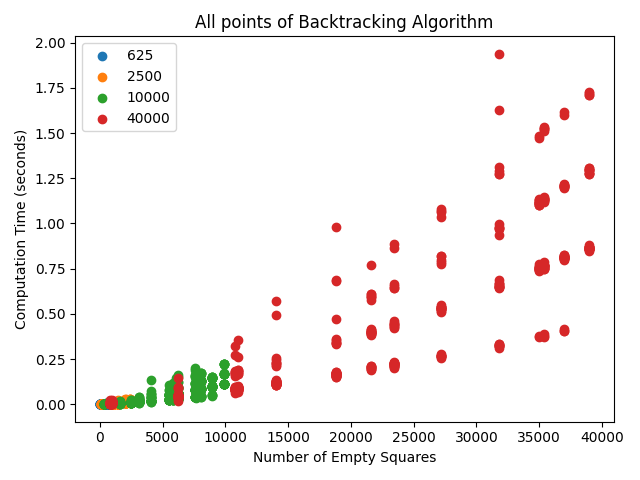
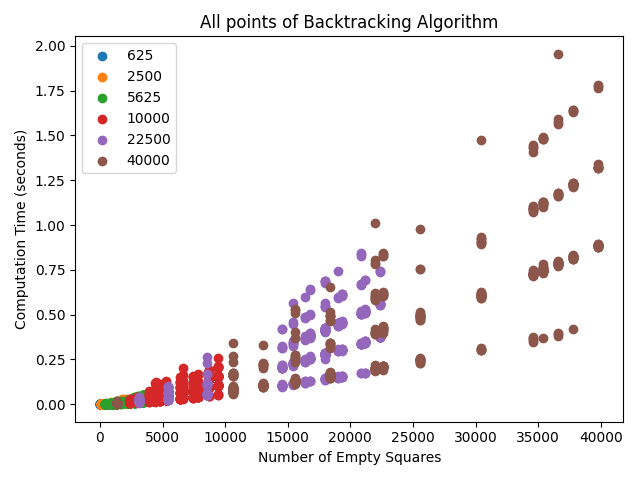
adding documentation

diff --git a/main.py b/main.py
@@ -18,8 +18,8 @@ import random as rand
 
 
 def setup(input_size, board_setup):
-    board_list = board_setup.split(',') # Break up input string
-    board = []                          # Initialize board
+    board_list = board_setup.split(",")  # Break up input string
+    board = []  # Initialize board
     row = []
     count = 1
 
@@ -52,11 +52,11 @@ def setup(input_size, board_setup):
 
 
 def find_cell(board, size):
-    for i in range (size):
-        for j in range (size):
-            if board[i][j] == '0':
+    for i in range(size):
+        for j in range(size):
+            if board[i][j] == "0":
                 return i, j
-            
+
     return -1, -1
 
 
@@ -68,22 +68,22 @@ def find_cell(board, size):
 
 
 def valid_move(cord1, cord2, board, size, num):
-
     # Check row for number
-    for i in range (size):
+    for i in range(size):
         if board[i][cord2] == str(num):
-            #print("Not valid: ", num)
-            #print(i, cord2)
+            # print("Not valid: ", num)
+            # print(i, cord2)
             return False
 
     # Check column for number
-    for j in range (size):
+    for j in range(size):
         if board[cord1][j] == str(num):
-            #print("Not valid: ", num)
-            #print(cord1, j)
+            # print("Not valid: ", num)
+            # print(cord1, j)
             return False
 
     return True
+
 
 """"
     Backtracking algorithm to solve sudoku puzzle
@@ -97,9 +97,10 @@ def valid_move(cord1, cord2, board, size, num):
         - Upon completion return the solved board - DONE
 """
 
+
 def solve(board, size):
     start = time.time()
-    nums = list(range(1, size + 1))   # list of all possible numbers
+    nums = list(range(1, size + 1))  # list of all possible numbers
     cord1, cord2 = find_cell(board, size)
     # print("Checking cords: ", cord1, cord2)
 
@@ -110,13 +111,13 @@ def solve(board, size):
         return True, total
 
     for num in nums:
-        if (valid_move(cord1, cord2, board, size, num)):
-            #print("Valid move: ", num)
-            #print(cord1, cord2)
+        if valid_move(cord1, cord2, board, size, num):
+            # print("Valid move: ", num)
+            # print(cord1, cord2)
 
             board[cord1][cord2] = str(num)
 
-            if (solve(board, size)):
+            if solve(board, size):
                 end = time.time()
                 total = end - start
                 return True, total
@@ -138,7 +139,9 @@ def solve(board, size):
 
 def is_valid(board):
     for row in board:
-        if len(row) != len(set(row)) or ' ' in row:       # Convert list to set to check for duplicates
+        if (
+            len(row) != len(set(row)) or " " in row
+        ):  # Convert list to set to check for duplicates
             return False
 
     columns = []
@@ -147,11 +150,10 @@ def is_valid(board):
         columns.append(column)
 
     for column in columns:
-        if len(column) != len(set(column)) or ' ' in column:
+        if len(column) != len(set(column)) or " " in column:
             return False
 
     return True
-
 
 
 """
@@ -167,9 +169,9 @@ def output(board, input_size):
         index = 0
         for val in row:
             if index == 0:
-                print("| %s" % val, end='', sep='', flush=True)
+                print("| %s" % val, end="", sep="", flush=True)
             elif index != input_size - 1:
-                print(" | %s" % val, end='', sep='', flush=True)
+                print(" | %s" % val, end="", sep="", flush=True)
             else:
                 print(" | %s |" % val)
             index += 1
@@ -191,13 +193,19 @@ def calculate(dict):
     return times, removed
 
 
+"""
+    Function that handles plotting the scatter plots for the data. Once plots are constructed, they are saved to the 
+    local directory. Parameters for the function are the dictionary that stores the values of the algorithm as well as
+    the algorithm that is being plotted.  
+"""
+
+
 def plot(back_time_dict, algo):
     pprint.pprint(back_time_dict)
 
     for val in back_time_dict:
         x = back_time_dict[val][1]
         y = back_time_dict[val][0]
-        # ax = plt.scatter(x, y, label=val)
         plt.scatter(x, y, label=val)
     plt.legend()
     plt.xlabel("Number of Empty Squares")
@@ -205,7 +213,7 @@ def plot(back_time_dict, algo):
     plt.title("All points of %s Algorithm" % algo)
 
     plt.tight_layout()
-    plt.savefig('scatter_%s' % algo)
+    plt.savefig("scatter_%s" % algo)
 
     plt.clf()
 
@@ -220,10 +228,7 @@ def plot(back_time_dict, algo):
     plt.title("Average of all points of %s Algorithm" % algo)
 
     plt.tight_layout()
-    plt.savefig('scatter_avg_%s' % algo)
-    # plt.show()
-
-
+    plt.savefig("scatter_avg_%s" % algo)
 
 
 """
@@ -233,22 +238,21 @@ def plot(back_time_dict, algo):
 
 
 def main():
-    values = [25, 50, 100, 200]
+    values = [25, 50, 75, 100, 150, 200]
     number_of_test = 30
     back_time_dict = {}
-    for val in values:                                 # Iterate values in array of sizes
+    for val in values:  # Iterate values in array of sizes
         time_log_back = []
         removed = []
         important = []
         for num in range(15):
             remove = rand.randrange(val)
-            # removed = []
-            # time_log_back = []
-            for i in range(number_of_test):                # Test each value 30 times
+            for i in range(number_of_test):  # Test each value 30 times
                 total_time = 0
-                board_setup, input_size, remove = make_board(val, remove)  # Take board data from function that generates boards
-                board = setup(input_size, board_setup)     # Set up board with given input
-                # valid, total_time = is_valid(board)
+                board_setup, input_size, remove = make_board(
+                    val, remove
+                )  # Take board data from function that generates boards
+                board = setup(input_size, board_setup)  # Set up board with given input
                 if is_valid(board):
                     output(board, input_size)
                     print("Game over.")
@@ -265,8 +269,8 @@ def main():
                 removed.append(remove * val)
         important.append(time_log_back)
         important.append(removed)
-        back_time_dict[val*val] = important
+        back_time_dict[val * val] = important
     plot(back_time_dict, "Backtracking")
 
-main()
 
+main()
